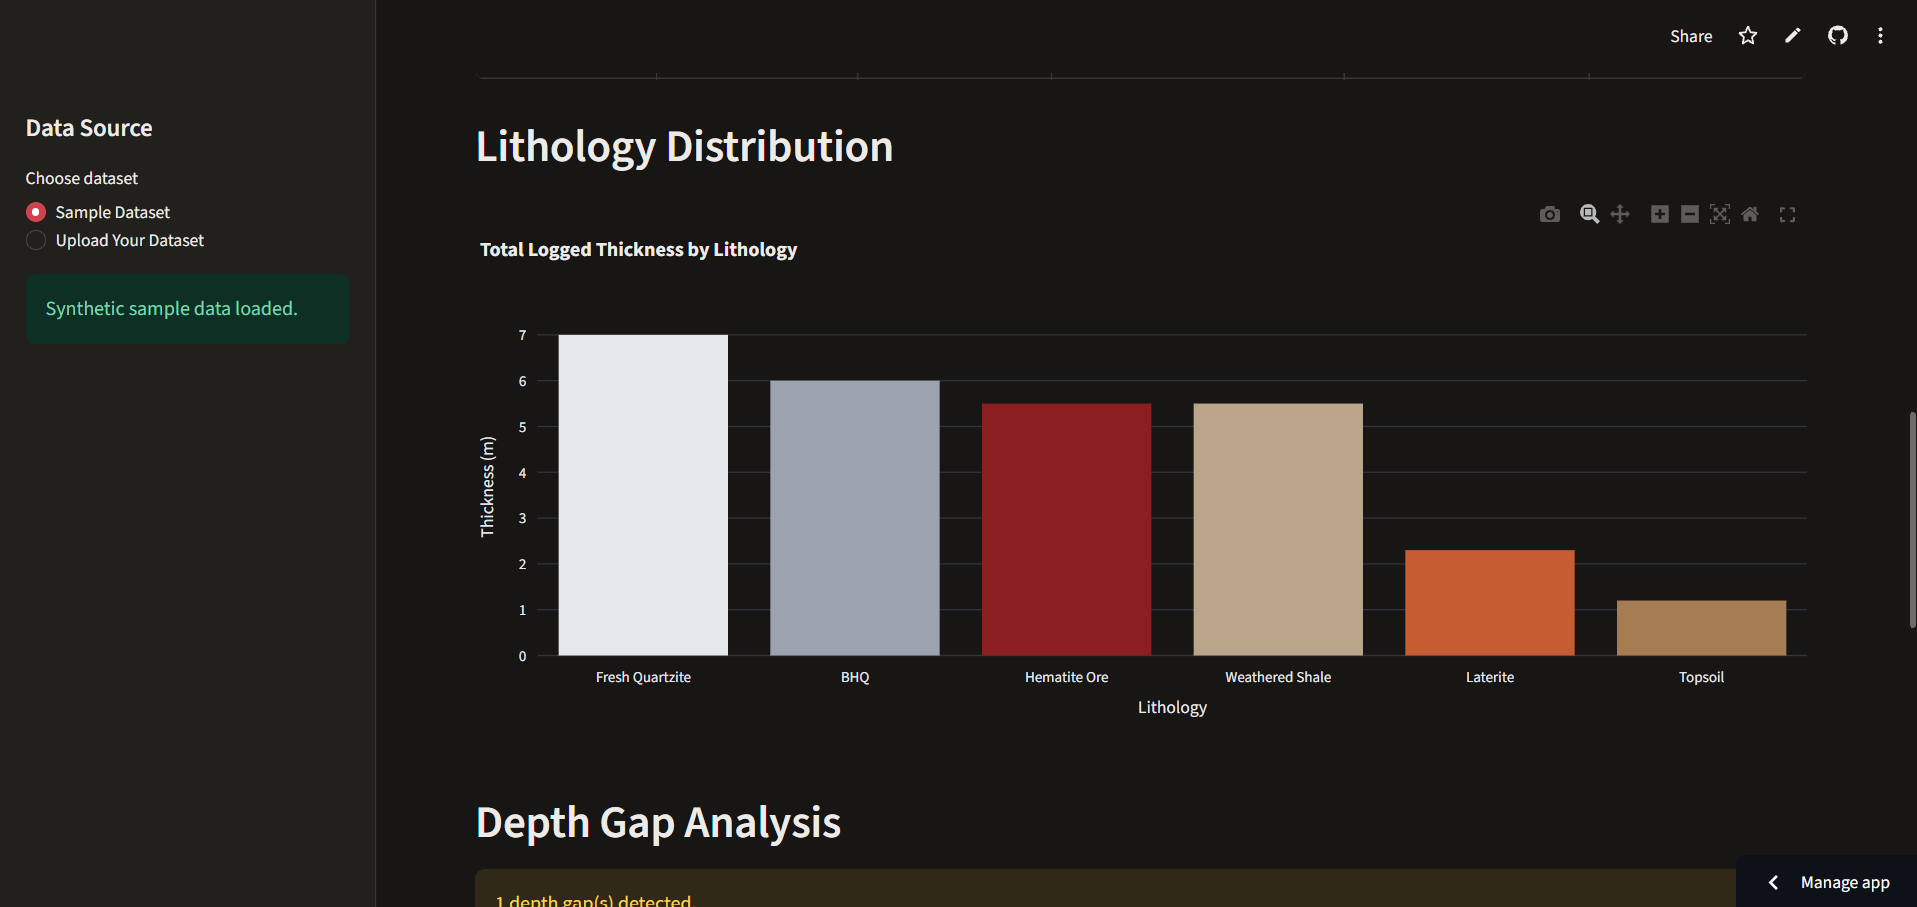
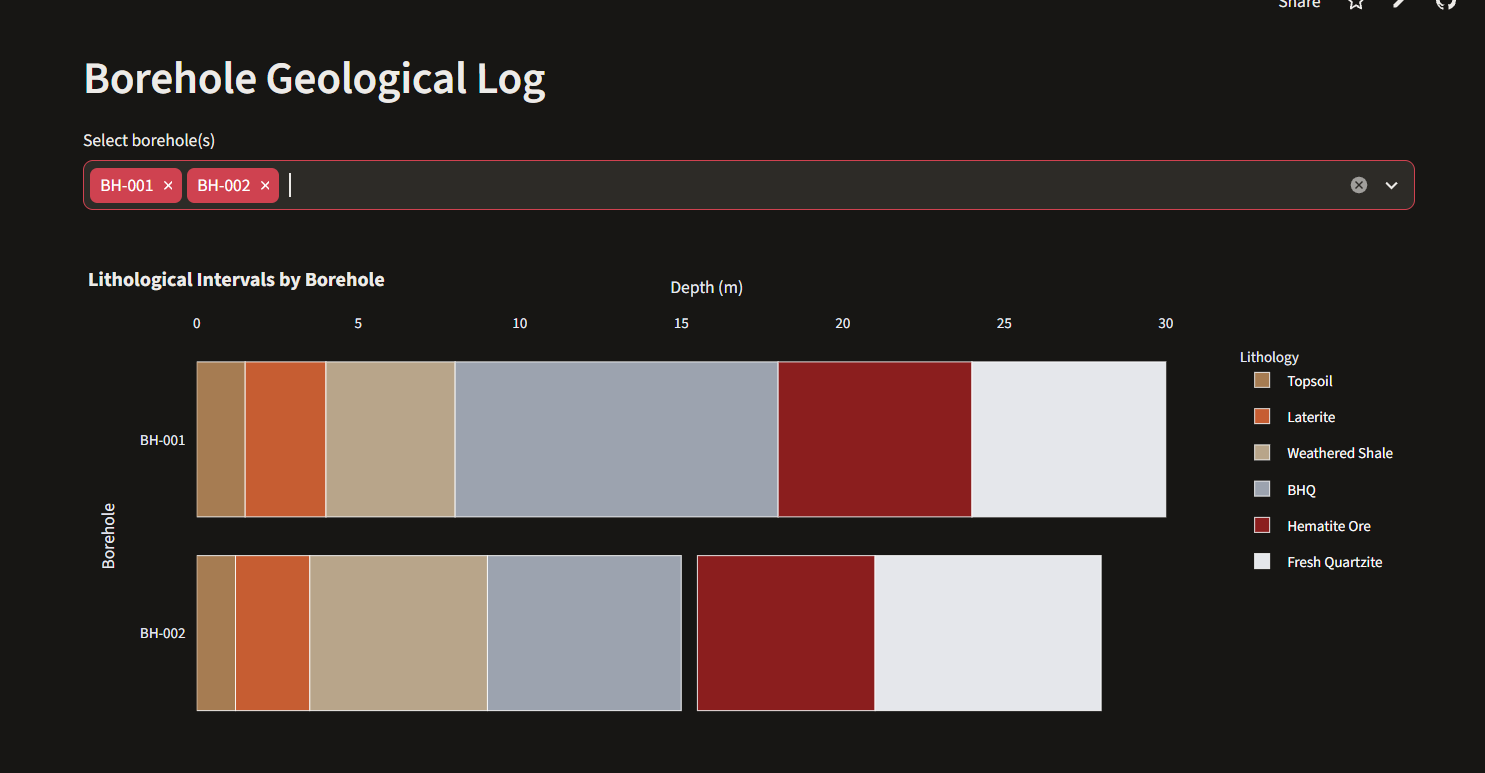
Update README and replace geological log screenshot

diff --git a/README.md b/README.md
@@ -1,30 +1,55 @@
-
 # Geological Borehole Log Visualizer
 
 An interactive Python application for validating, processing, analyzing, and visualizing geological borehole interval data.
 
-Built with Python, Pandas, Plotly, and Streamlit.
+Built with **Python, Pandas, Plotly, and Streamlit**.
+
+🌐 **Live Application:** https://geological-borehole-log-visualizer.streamlit.app/
+
+💻 **GitHub Repository:** https://github.com/helldeepak116-design/Geological-Borehole-Log-Visualizer
 
 ## Features
 
 - Import borehole data from CSV and Excel files.
 - Validate geological interval records.
-- Visualize lithological units against depth.
-- Compare multiple boreholes.
+- Visualize lithological units against numerical depth.
+- Compare multiple boreholes interactively.
 - Calculate interval thickness automatically.
-- Detect gaps between consecutive geological intervals.
+- Detect overlaps and gaps between consecutive geological intervals.
 - Summarize borehole depth and lithological distribution.
+- Explore geological attributes through interactive chart tooltips.
 - Export processed geological logs as CSV and Excel reports.
+- Generate Excel reports containing borehole logs, depth summaries, and depth-gap information.
+
+## Application Screenshots
+
+### Dashboard Overview
+
+![Dashboard Overview](docs/images/dashboard-overview.png)
+
+### Geological Borehole Log Visualization
+
+![Geological Log Visualization](docs/images/geological-log.png)
+
+### Borehole Log Data
+
+![Geological Log Data](docs/images/geological-log-data.png)
+
+### Depth Gap Analysis
+
+![Depth Gap Analysis](docs/images/depth-gap-analysis.png)
 
 ## Technology Stack
 
-- Python 3.12
-- Pandas
-- NumPy
-- Plotly
-- Streamlit
-- OpenPyXL
-- Pytest
+| Technology | Purpose |
+|---|---|
+| Python 3.12 | Core programming language |
+| Pandas | Data processing and analysis |
+| NumPy | Numerical operations |
+| Plotly | Interactive geological visualization |
+| Streamlit | Web application framework |
+| OpenPyXL | Excel file processing |
+| Pytest | Automated testing |
 
 ## Project Structure
 
@@ -48,6 +73,10 @@ Geological-Borehole-Log-Visualizer/
 │   ├── __init__.py
 │   └── test_borehole.py
 │
+├── .github/
+│   └── workflows/
+│       └── tests.yml
+│
 ├── app.py
 ├── requirements.txt
 ├── README.md
@@ -59,7 +88,7 @@ Geological-Borehole-Log-Visualizer/
 Clone the repository:
 
 ```bash
-git clone https://github.com/YOUR_USERNAME/Geological-Borehole-Log-Visualizer.git
+git clone https://github.com/helldeepak116-design/Geological-Borehole-Log-Visualizer.git
 cd Geological-Borehole-Log-Visualizer
 ```
 
@@ -99,7 +128,17 @@ http://localhost:8501
 pytest -v
 ```
 
-The current test suite contains 11 automated tests covering data validation, interval thickness calculations, overlap detection, and depth gap identification.
+The project currently contains **11 automated tests** covering core functionality, including data validation, interval thickness calculations, overlap detection, and depth-gap identification.
+
+### Continuous Integration
+
+GitHub Actions automatically runs the test suite when changes are pushed to the `main` branch or a pull request targets it.
+
+**CI Status:** Passing
+
+Workflow: `.github/workflows/tests.yml`
+
+[View GitHub Actions](https://github.com/helldeepak116-design/Geological-Borehole-Log-Visualizer/actions)
 
 ## Input Data Format
 
@@ -115,6 +154,16 @@ The application requires the following columns:
 | Weathering | Weathering condition |
 | Mineralization | Mineralization observations |
 | Description | Geological interval description |
+
+## Export Functionality
+
+The application supports exporting processed borehole information in CSV and Excel formats.
+
+The Excel report contains three worksheets:
+
+1. **Borehole_Log** – Processed geological interval records.
+2. **Depth_Summary** – Borehole depth summary information.
+3. **Depth_Gaps** – Identified gaps between consecutive intervals.
 
 ## Geological Applications
 
@@ -135,19 +184,21 @@ It does not represent actual drilling records, geological observations, or explo
 
 Interpretations generated from uploaded datasets depend on the quality and accuracy of the supplied geological records.
 
-## Current Development Status
+## Development Status
 
 - [x] Borehole data validation
 - [x] Interval thickness calculation
+- [x] Overlap detection
 - [x] Depth gap detection
 - [x] Interactive lithological visualization
 - [x] Multiple borehole selection
 - [x] CSV and Excel import
 - [x] CSV and Excel export
 - [x] Automated core-function tests
-- [ ] GitHub Actions CI
-- [ ] Cloud deployment
+- [x] GitHub Actions CI
+- [x] Cloud deployment
+- [x] Documentation and screenshots
 
 ## License
 
-MIT License
+This project is licensed under the MIT License.
